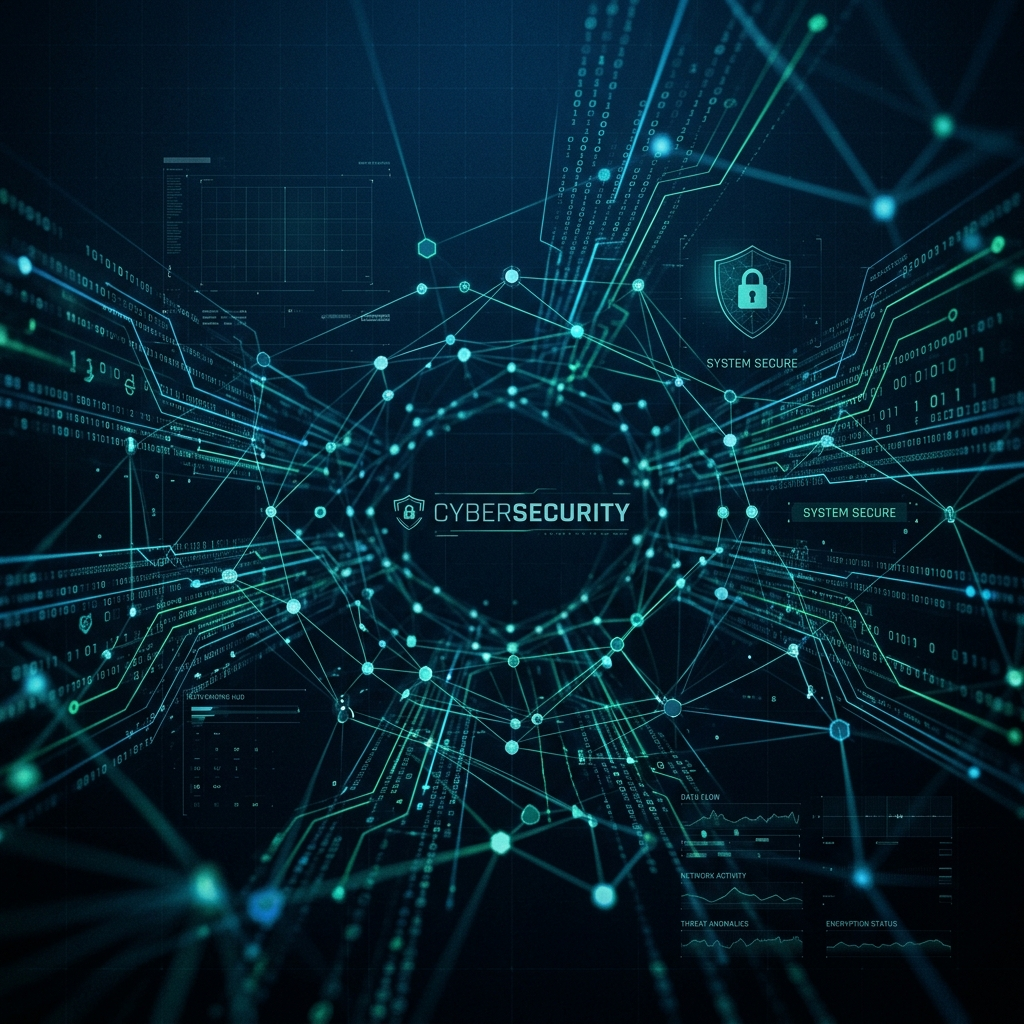
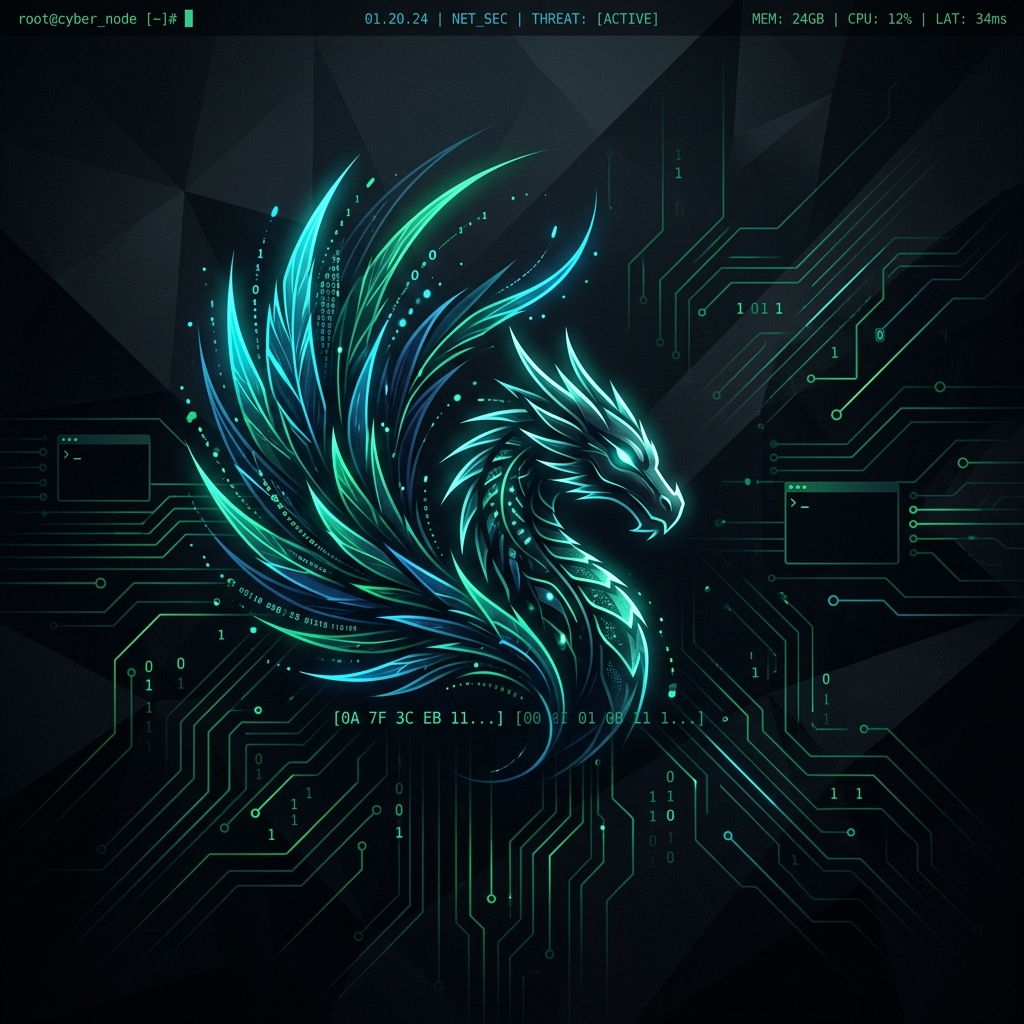
Deploy: switch to gh-pages branch method

diff --git a/src/components/DesktopEnvironment.jsx b/src/components/DesktopEnvironment.jsx
@@ -4,18 +4,75 @@ import Dock from './Dock';
 import Window from './Window';
 import { useWindowManager } from '../contexts/WindowManagerContext';
 import { AnimatePresence } from 'framer-motion';
+import { Folder, Monitor, Terminal } from 'lucide-react';
+import FolderView from './apps/FolderView';
+
+const DESKTOP_STRUCTURE = [
+    {
+        id: 'offensive-root',
+        title: 'Offensive',
+        icon: Folder,
+        color: 'text-red-600',
+        subFolders: [
+            { title: 'web-security-labs', type: 'Application', icon: <Terminal size={32} /> },
+            { title: 'pentesting-reports', type: 'Application', icon: <Terminal size={32} /> },
+            { title: 'ctf-writeups', type: 'Application', icon: <Terminal size={32} /> },
+            { title: 'beginner', type: 'Application', icon: <Terminal size={32} /> },
+        ]
+    },
+    {
+        id: 'defensive-root',
+        title: 'Defensive',
+        icon: Folder,
+        color: 'text-blue-500',
+        subFolders: [
+            { title: 'siem-project', type: 'Application', icon: <Monitor size={32} /> },
+            { title: 'network-tools', type: 'Application', icon: <Monitor size={32} /> },
+        ]
+    }
+];
 
 const DesktopEnvironment = () => {
-    const { windows } = useWindowManager();
+    const { windows, openWindow } = useWindowManager();
+
+    const handleFolderDoubleClick = (folder) => {
+        openWindow(
+            folder.id, 
+            folder.title, 
+            folder.icon, 
+            () => <FolderView folderName={folder.title} subFolders={folder.subFolders} />
+        );
+    };
 
     return (
         <div className="w-screen h-screen overflow-hidden relative selection:bg-emerald-500/20 select-none bg-transparent">
             <TopBar />
             <Dock />
 
+            {/* Desktop Icons Grid */}
+            <div className="absolute top-12 left-16 sm:left-20 p-8 grid grid-cols-1 gap-12 w-fit z-0">
+                {DESKTOP_STRUCTURE.map((folder) => {
+                    const Icon = folder.icon;
+                    return (
+                        <div 
+                            key={folder.id}
+                            onDoubleClick={() => handleFolderDoubleClick(folder)}
+                            className="flex flex-col items-center justify-center space-y-2 group cursor-pointer w-24 p-2 rounded-xl hover:bg-white/5 transition-all"
+                        >
+                            <div className={`relative p-1 ${folder.color} group-hover:scale-110 transition-transform duration-300`}>
+                                <Icon size={58} className="drop-shadow-[0_0_15px_rgba(0,0,0,0.5)]" />
+                                <div className="absolute inset-0 bg-white/10 blur-2xl rounded-full opacity-0 group-hover:opacity-100 transition-opacity" />
+                            </div>
+                            <span className="text-[11px] font-bold text-white shadow-black drop-shadow-lg text-center leading-tight uppercase tracking-widest px-1 py-0.5 bg-black/20 rounded backdrop-blur-sm border border-white/5">
+                                {folder.title}
+                            </span>
+                        </div>
+                    );
+                })}
+            </div>
+
             {/* Desktop Area for Windows */}
             <div className="absolute top-0 left-0 right-0 bottom-0 z-10 overflow-hidden pointer-events-none">
-                {/* We need pointer events on windows, so we reset it for children */}
                 <AnimatePresence>
                     {windows.map((window) => (
                         <div key={window.id} className="pointer-events-auto">

diff --git a/src/components/apps/FolderView.jsx b/src/components/apps/FolderView.jsx
@@ -1,0 +1,52 @@
+import React from 'react';
+import { Folder, FileText, ChevronRight, ShieldAlert, ShieldCheck, Terminal, Target } from 'lucide-react';
+
+const FolderView = ({ folderName, subFolders }) => {
+    return (
+        <div className="h-full bg-[#0A0A0A] text-white font-sans p-6 overflow-y-auto">
+            <div className="flex items-center gap-3 mb-8 border-b border-white/5 pb-4">
+                <Folder size={24} className={folderName === 'Offensive' ? 'text-red-600' : 'text-blue-500'} />
+                <h2 className="text-xl font-bold tracking-tight uppercase">{folderName}</h2>
+                <span className="text-white/20 text-xs font-mono ml-auto">ROOT://{folderName.toLowerCase()}</span>
+            </div>
+
+            <div className="grid grid-cols-1 sm:grid-cols-2 md:grid-cols-3 gap-4">
+                {subFolders.map((sub, idx) => (
+                    <div 
+                        key={idx} 
+                        className="group p-5 bg-[#151515] border border-white/5 rounded-2xl hover:bg-white/5 hover:border-white/20 transition-all cursor-pointer flex flex-col items-center text-center space-y-4 shadow-[0_10px_30px_-10px_rgba(0,0,0,0.5)] active:scale-95"
+                    >
+                        <div className={`p-4 rounded-2xl ${folderName === 'Offensive' ? 'bg-gradient-to-br from-red-600 to-red-900 text-white shadow-[0_0_15px_rgba(220,38,38,0.4)]' : 'bg-gradient-to-br from-blue-600 to-blue-900 text-white shadow-[0_0_15px_rgba(37,99,235,0.4)]'} group-hover:scale-110 group-hover:rotate-3 transition-all duration-300`}>
+                             {sub.icon}
+                        </div>
+                        <div>
+                             <h3 className="text-sm font-bold text-white/90 group-hover:text-white transition-colors truncate w-full max-w-[120px]">
+                                {sub.title}
+                             </h3>
+                             <p className="text-[10px] text-white/40 mt-1 uppercase font-black tracking-tighter">
+                                {sub.type || 'Directory'}
+                             </p>
+                        </div>
+                    </div>
+                ))}
+            </div>
+
+            {subFolders.length === 0 && (
+                <div className="h-64 flex flex-col items-center justify-center text-white/20 space-y-4">
+                    <Terminal size={48} className="opacity-10" />
+                    <p className="text-sm font-mono tracking-widest">DIRECTORY_EMPTY</p>
+                </div>
+            )}
+            
+            <div className="mt-12 p-4 bg-black/50 border border-white/5 rounded-lg">
+                 <p className="text-[10px] font-mono text-white/30 leading-relaxed uppercase">
+                    [*] System Indexing Completed <br/>
+                    [*] {subFolders.length} Objects found in current directory <br/>
+                    [*] Access Permissions: READ_ONLY
+                 </p>
+            </div>
+        </div>
+    );
+};
+
+export default FolderView;

diff --git a/index.html b/index.html
@@ -2,7 +2,7 @@
 <html lang="en">
   <head>
     <meta charset="UTF-8" />
-    <link rel="icon" type="image/svg+xml" href="/vite.svg" />
+    <link rel="icon" type="image/svg+xml" href="./vite.svg" />
     <meta name="viewport" content="width=device-width, initial-scale=1.0" />
     <title>r-portfolio-02</title>
   </head>

diff --git a/src/components/apps/Terminal.jsx b/src/components/apps/Terminal.jsx
@@ -85,7 +85,7 @@ useEffect(() => {
 }, [currentIndex, fullText]);
 
     return (
-        <div className="h-full w-full bg-[#300A24] bg-opacity-95 p-4 font-mono text-sm overflow-auto text-green-400 font-medium">
+        <div className="h-full w-full bg-[#050505] p-4 font-mono text-sm overflow-auto text-green-400 font-medium select-text">
             <pre className="whitespace-pre-wrap leading-relaxed m-0 p-0 font-inherit drop-shadow-md">
                 {text}
             </pre>